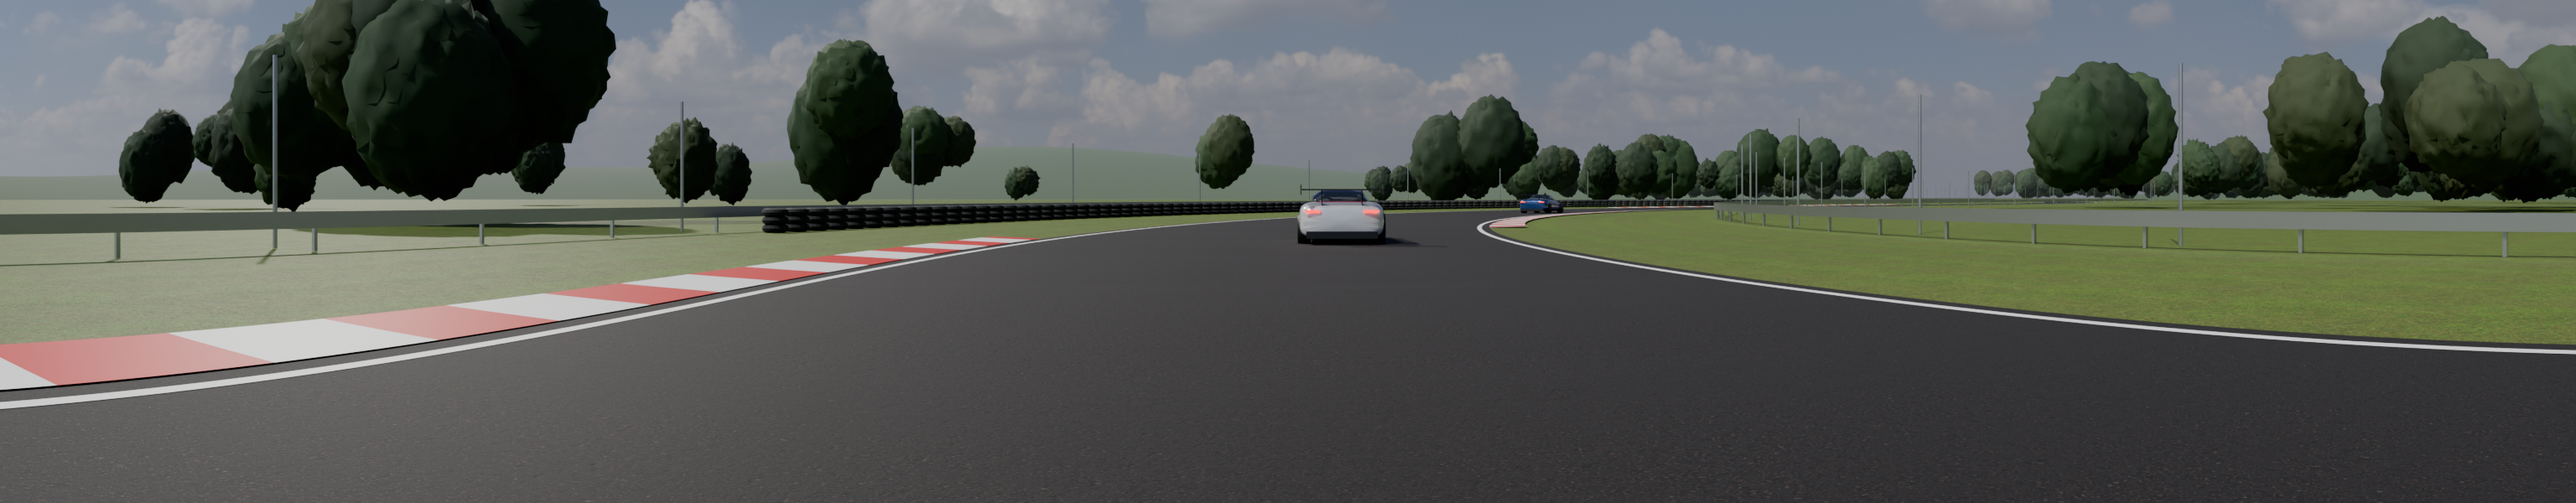
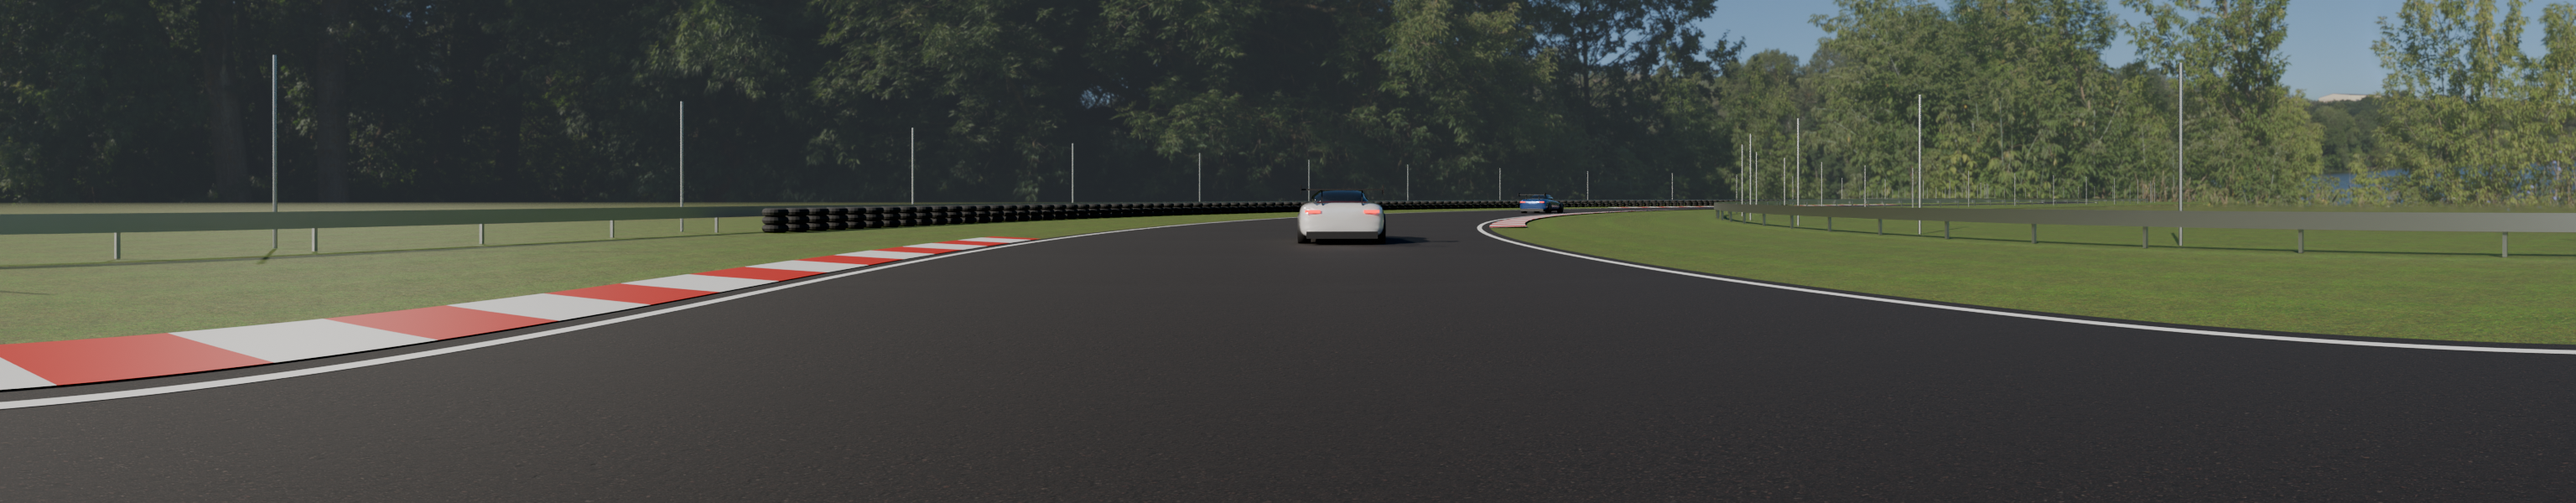
Screens: photoreal unbranded track art (meadow HDRI, PBR asphalt/grass, armco, generic GT cars); pano spans the triple, top screen shows a mirror view

diff --git a/scripts/rig3d/render_screen_scene.py b/scripts/rig3d/render_screen_scene.py
@@ -206,44 +206,25 @@ for i in range(apex0 - 10, apex1 + 30, 1):
         q = c + n * 14.8
         bpy.ops.mesh.primitive_torus_add(major_radius=0.3, minor_radius=0.12, location=(q.x, q.y, 0.12 + k * 0.24), major_segments=20, minor_segments=8)
         bpy.context.active_object.data.materials.append(tyre)
-# ground beyond, and low hills on the horizon
-bpy.ops.mesh.primitive_plane_add(size=3000, location=(200, 0, -0.03))
+# ground beyond the verges: textured grass that fades out into the photographed meadow of the HDRI
+bpy.ops.mesh.primitive_circle_add(vertices=96, radius=260, fill_type="TRIFAN", location=(60, 0, -0.03))
 ground = bpy.context.active_object
-ground.data.materials.append(textured("Field", "leafy_grass", (1 / 3, 1 / 3, 1), tint=(0.26, 0.52, 0.15, 1), normal=0.6, coord="Object"))
-bm = bmesh.new()
-bmesh.ops.create_grid(bm, x_segments=160, y_segments=40, size=1)
-for v in bm.verts:
-    ang = v.co.x * math.pi * 0.9           # -0.9pi..0.9pi around the camera, open behind
-    rr = 380 + (v.co.y + 1) * 220
-    hgt = (math.sin(ang * 3.1 + 1.3) * 0.5 + math.sin(ang * 7.3) * 0.25 + math.sin(ang * 1.7 + 0.4) * 0.6 + 1.2) * 18 * (1 - abs(v.co.y) ** 2)
-    v.co = Vector((200 + math.cos(ang) * rr, math.sin(ang) * rr, max(0, hgt) - 2))
-hills = obj("Hills", bm, flat("Hills", (0.05, 0.09, 0.035), 0.9))
-for poly in hills.data.polygons:
-    poly.use_smooth = True
-# simple tree line: clustered dark ellipsoids along the infield and behind the fences
-tree_mats = [flat(f"Trees {k}", c, 0.85) for k, c in enumerate([(0.02, 0.045, 0.015), (0.03, 0.06, 0.02), (0.035, 0.05, 0.018), (0.018, 0.035, 0.014)])]
-import random
-random.seed(7)
-leaf = bpy.data.textures.new("Leafy", "CLOUDS"); leaf.noise_scale = 0.35; leaf.noise_depth = 3
-for k in range(260):
-    i = random.randrange(0, len(pts))
-    c, _, n = frame(i)
-    s = random.choice((1, -1))
-    q = c + n * (s * random.uniform(28, 120))
-    if q.x < 0:
-        continue
-    r = random.uniform(2.5, 5.0)
-    for j in range(random.randint(2, 4)):  # each tree a cluster of leafy clumps
-        off = Vector((random.uniform(-1, 1), random.uniform(-1, 1), random.uniform(0, 1.2))) * r * 0.6
-        rr = r * random.uniform(0.6, 0.9)
-        bpy.ops.mesh.primitive_ico_sphere_add(subdivisions=4, radius=rr, location=(q.x + off.x, q.y + off.y, r * 1.2 + off.z))
-        t = bpy.context.active_object
-        t.scale = (1, 1, random.uniform(1.0, 1.4))
-        t.data.materials.append(random.choice(tree_mats))
-        d = t.modifiers.new("Leaf", "DISPLACE")
-        d.texture = leaf; d.strength = 1.4; d.texture_coords = "GLOBAL"
-        for poly in t.data.polygons:
-            poly.use_smooth = True
+gm = textured("Field", "leafy_grass", (1 / 3, 1 / 3, 1), tint=(0.3, 0.5, 0.18, 1), normal=0.6, coord="Object")
+gnt = gm.node_tree
+out = gnt.nodes["Material Output"]
+bsdf = gnt.nodes["Principled BSDF"]
+tc = gnt.nodes.new("ShaderNodeTexCoord")
+ln = gnt.nodes.new("ShaderNodeVectorMath"); ln.operation = "LENGTH"
+gnt.links.new(tc.outputs["Object"], ln.inputs[0])
+fade = gnt.nodes.new("ShaderNodeMapRange")
+fade.inputs["From Min"].default_value = 60; fade.inputs["From Max"].default_value = 200
+gnt.links.new(ln.outputs["Value"], fade.inputs["Value"])
+tr = gnt.nodes.new("ShaderNodeBsdfTransparent")
+mix = gnt.nodes.new("ShaderNodeMixShader")
+gnt.links.new(fade.outputs["Result"], mix.inputs["Fac"])
+gnt.links.new(bsdf.outputs["BSDF"], mix.inputs[1]); gnt.links.new(tr.outputs["BSDF"], mix.inputs[2])
+gnt.links.new(mix.outputs["Shader"], out.inputs["Surface"])
+ground.data.materials.append(gm)
 
 # ---------------------------------------------------------------- generic GT car (no branding)
 def car(name, at_index, lateral, paint_rgb, stripe_rgb):
@@ -334,13 +315,14 @@ def car(name, at_index, lateral, paint_rgb, stripe_rgb):
 
 car("Car ahead", 82, -1.6, (0.85, 0.85, 0.86), (0.75, 0.0015, 0.0))
 car("Car far", 128, -3.0, (0.02, 0.06, 0.2), (0.8, 0.8, 0.8))
+car("Car behind", 51, 0.8, (0.75, 0.0015, 0.0), (0.85, 0.85, 0.85))
 
 # ---------------------------------------------------------------- sky, render
 world = bpy.data.worlds.new("Sky")
 world.use_nodes = True
 wn = world.node_tree
 env = wn.nodes.new("ShaderNodeTexEnvironment")
-env.image = img("kloofendal_48d_partly_cloudy_puresky_4k.hdr")
+env.image = img("meadow_2_8k.hdr")
 mpw = wn.nodes.new("ShaderNodeMapping")
 mpw.inputs["Rotation"].default_value = (0, 0, math.radians(200))
 tcw = wn.nodes.new("ShaderNodeTexCoord")
@@ -348,7 +330,7 @@ wn.links.new(tcw.outputs["Generated"], mpw.inputs["Vector"])
 wn.links.new(mpw.outputs["Vector"], env.inputs["Vector"])
 wn.links.new(env.outputs["Color"], wn.nodes["Background"].inputs["Color"])
 scene.world = world
-sun = bpy.data.lights.new("Sun", "SUN"); sun.energy = 4.5; sun.angle = math.radians(1.5); sun.color = (1.0, 0.95, 0.86)
+sun = bpy.data.lights.new("Sun", "SUN"); sun.energy = 2.0; sun.angle = math.radians(1.5); sun.color = (1.0, 0.95, 0.86)
 sun_o = bpy.data.objects.new("Sun", sun); scene.collection.objects.link(sun_o)
 sun_o.rotation_euler = (math.radians(50), 0, math.radians(140))
 world.mist_settings.start = 40
@@ -370,7 +352,7 @@ for nd in list(nt.nodes):
 rl = nt.nodes.new("CompositorNodeRLayers")
 haze = nt.nodes.new("CompositorNodeMixRGB")
 haze.inputs[2].default_value = (0.62, 0.68, 0.78, 1)
-pw = nt.nodes.new("CompositorNodeMath"); pw.operation = "MULTIPLY"; pw.inputs[1].default_value = 0.25
+pw = nt.nodes.new("CompositorNodeMath"); pw.operation = "MULTIPLY"; pw.inputs[1].default_value = 0.08
 nt.links.new(rl.outputs["Mist"], pw.inputs[0])
 nt.links.new(pw.outputs[0], haze.inputs["Fac"])
 nt.links.new(rl.outputs["Image"], haze.inputs[1])
@@ -393,17 +375,28 @@ scene.render.resolution_x, scene.render.resolution_y = 3072, 600
 scene.render.filepath = os.path.join(ART, "screen-pano.png")
 bpy.ops.render.render(write_still=True)
 
-chase_d = bpy.data.cameras.new("Chase")
-chase_d.lens = 32
-chase_d.clip_end = 2000
-chase = bpy.data.objects.new("Chase", chase_d)
-scene.collection.objects.link(chase)
-ci, ti, ni = frame(74)
-chase.location = (ci.x - ni.x * 1.8, ci.y - ni.y * 1.8, 2.3)
-tgt = bpy.data.objects["Car ahead"].location + Vector((0, 0, 0.6))
-chase.rotation_euler = (tgt - chase.location).to_track_quat("-Z", "Y").to_euler()
-scene.camera = chase
+# top screen: the rear-view mirror (a car close behind), flipped as a mirror shows it
+mir_d = bpy.data.cameras.new("Mirror")
+mir_d.lens = 22
+mir_d.clip_end = 2000
+mir = bpy.data.objects.new("Mirror", mir_d)
+scene.collection.objects.link(mir)
+mir.location = cam.location + Vector((0, 0, 0.15))
+tgt = bpy.data.objects["Car behind"].location + Vector((0, 0, 0.7))
+mir.rotation_euler = (tgt - mir.location).to_track_quat("-Z", "Y").to_euler()
+scene.camera = mir
 scene.render.resolution_x, scene.render.resolution_y = 1200, 700
-scene.render.filepath = os.path.join(ART, "screen-top.png")
+path = os.path.join(ART, "screen-top.png")
+scene.render.filepath = path
 bpy.ops.render.render(write_still=True)
+im = bpy.data.images.load(path)
+w, h = im.size
+px = list(im.pixels)
+flipped = []
+for y in range(h):
+    row = px[y * w * 4:(y + 1) * w * 4]
+    for x in range(w - 1, -1, -1):
+        flipped.extend(row[x * 4:x * 4 + 4])
+im.pixels = flipped
+im.save()
 print("screens done")
